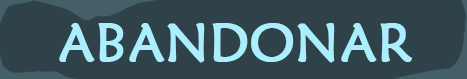
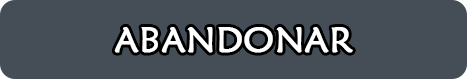
menu pausa

diff --git a/ATRAPA_LA_BANDERA/src/main/resources/static/js/Init.js b/ATRAPA_LA_BANDERA/src/main/resources/static/js/Init.js
@@ -30,8 +30,8 @@ function create(){
   game.url = String(window.location+'users');
   game.name = null;
 
-  game.scene.add("Nickname", new Nickname);
-  game.scene.start("Nickname");
+  game.scene.add("MenuPausa", new MenuPausa);
+  game.scene.start("MenuPausa");
 
   //game.scene.add("FinNivelW2", new FinNivelW2);
   //game.scene.start("FinNivelW2");

diff --git a/ATRAPA_LA_BANDERA/src/main/resources/static/js/MenuPausa.js b/ATRAPA_LA_BANDERA/src/main/resources/static/js/MenuPausa.js
@@ -5,7 +5,7 @@ class MenuPausa extends Phaser.Scene{
 
 	preload(){
 
-	this.load.image('fondoPausa', 'assets/img/MenuPausa/fondoMPausa.png');
+	this.load.image('fondoPausa', 'assets/img/MenuPausa/MENÚ PAUSA.png');
 
 	this.load.image('reanudar', 'assets/img/MenuPausa/reanudar.png');
 	this.load.image('opciones', 'assets/img/MenuPausa/opciones.png');
